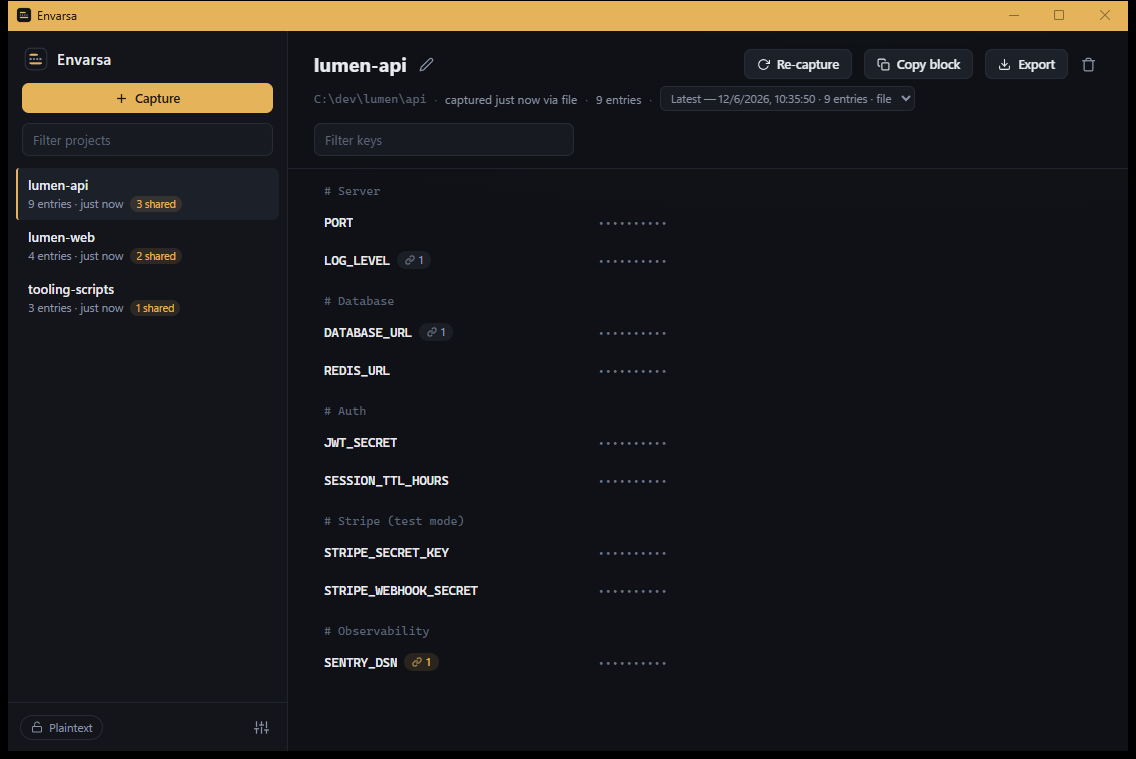
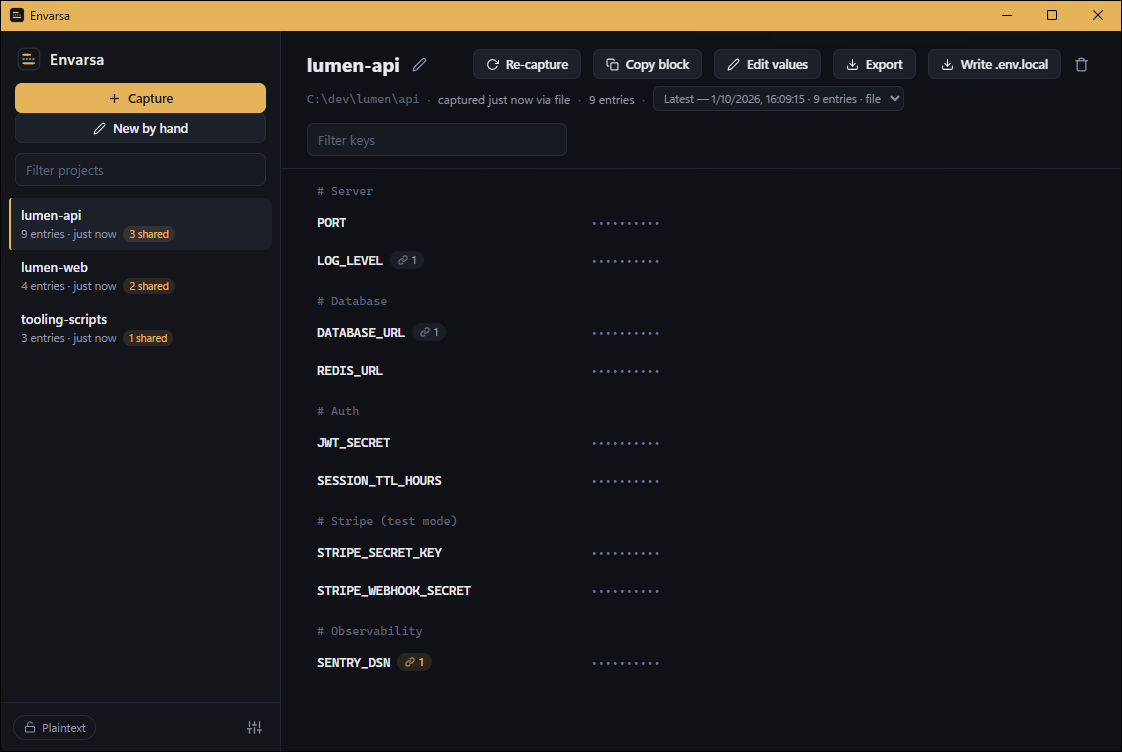
Retake the website screenshots
Settings now offers Export and Import instead of Change location, the
dialogs label the path field "Project folder", the project view has Edit
values and Write .env.local, and checkboxes draw dark. All five are
captured at the same 1122x752 window frame, and index.html carries the
new sizes.

diff --git a/website/index.html b/website/index.html
@@ -427,7 +427,7 @@
   <section class="showcase" aria-label="Screenshot">
     <div class="container">
       <div class="frame">
-        <img src="screenshots/demo.png" width="1136" height="759" decoding="async" fetchpriority="high"
+        <img src="screenshots/demo.png" width="1122" height="752" decoding="async" fetchpriority="high"
              alt="Envarsa main window: a project list on the left with reuse badges, the lumen-api project open showing nine environment keys grouped under comments, every value masked as a row of dots.">
       </div>
       <p class="frame-caption">Sample data (<code>ENVARSA_DEMO=1</code>): three projects, nine keys on screen, every value masked.</p>
@@ -506,22 +506,22 @@
       <h2 id="tour-h">Screenshots</h2>
       <div class="gallery-grid">
         <figure class="shot frame">
-          <img src="screenshots/screenshot-01.png" width="1122" height="751" loading="lazy" decoding="async"
+          <img src="screenshots/screenshot-01.png" width="1122" height="752" loading="lazy" decoding="async"
                alt="Envarsa first run: an empty library with the message 'Your env values, under one roof' and a button to capture the first project.">
           <figcaption>First run: capture a project, or drop a <code>.env</code> onto the window.</figcaption>
         </figure>
         <figure class="shot frame">
-          <img src="screenshots/screenshot-02.png" width="1122" height="751" loading="lazy" decoding="async"
+          <img src="screenshots/screenshot-02.png" width="1122" height="752" loading="lazy" decoding="async"
                alt="Capture dialog: paste KEY=value lines or pick a .env file, name the project, optionally record a file path hint.">
           <figcaption>Capture from a file or pasted lines. The name you give is the project&rsquo;s identity.</figcaption>
         </figure>
         <figure class="shot frame">
-          <img src="screenshots/screenshot-03.png" width="1122" height="751" loading="lazy" decoding="async"
+          <img src="screenshots/screenshot-03.png" width="1122" height="752" loading="lazy" decoding="async"
                alt="New project by hand dialog: name the project, optionally record a file path, then add KEY=value rows — each with an export toggle — plus buttons to add a variable, add a comment, or seed from a .env.example.">
           <figcaption>Build a project by hand, or seed it from a <code>.env.example</code>. Nothing is written to disk unless you choose.</figcaption>
         </figure>
         <figure class="shot frame">
-          <img src="screenshots/screenshot-04.png" width="1122" height="751" loading="lazy" decoding="async"
+          <img src="screenshots/screenshot-04.png" width="1122" height="752" loading="lazy" decoding="async"
                alt="Settings dialog: the store file path with buttons to show, export and import it, and a Protection section for opt-in passphrase encryption with an explicit no-recovery checkbox.">
           <figcaption>Settings: one portable store file, with opt-in <code>age</code> encryption and an explicit no-recovery checkbox.</figcaption>
         </figure>
